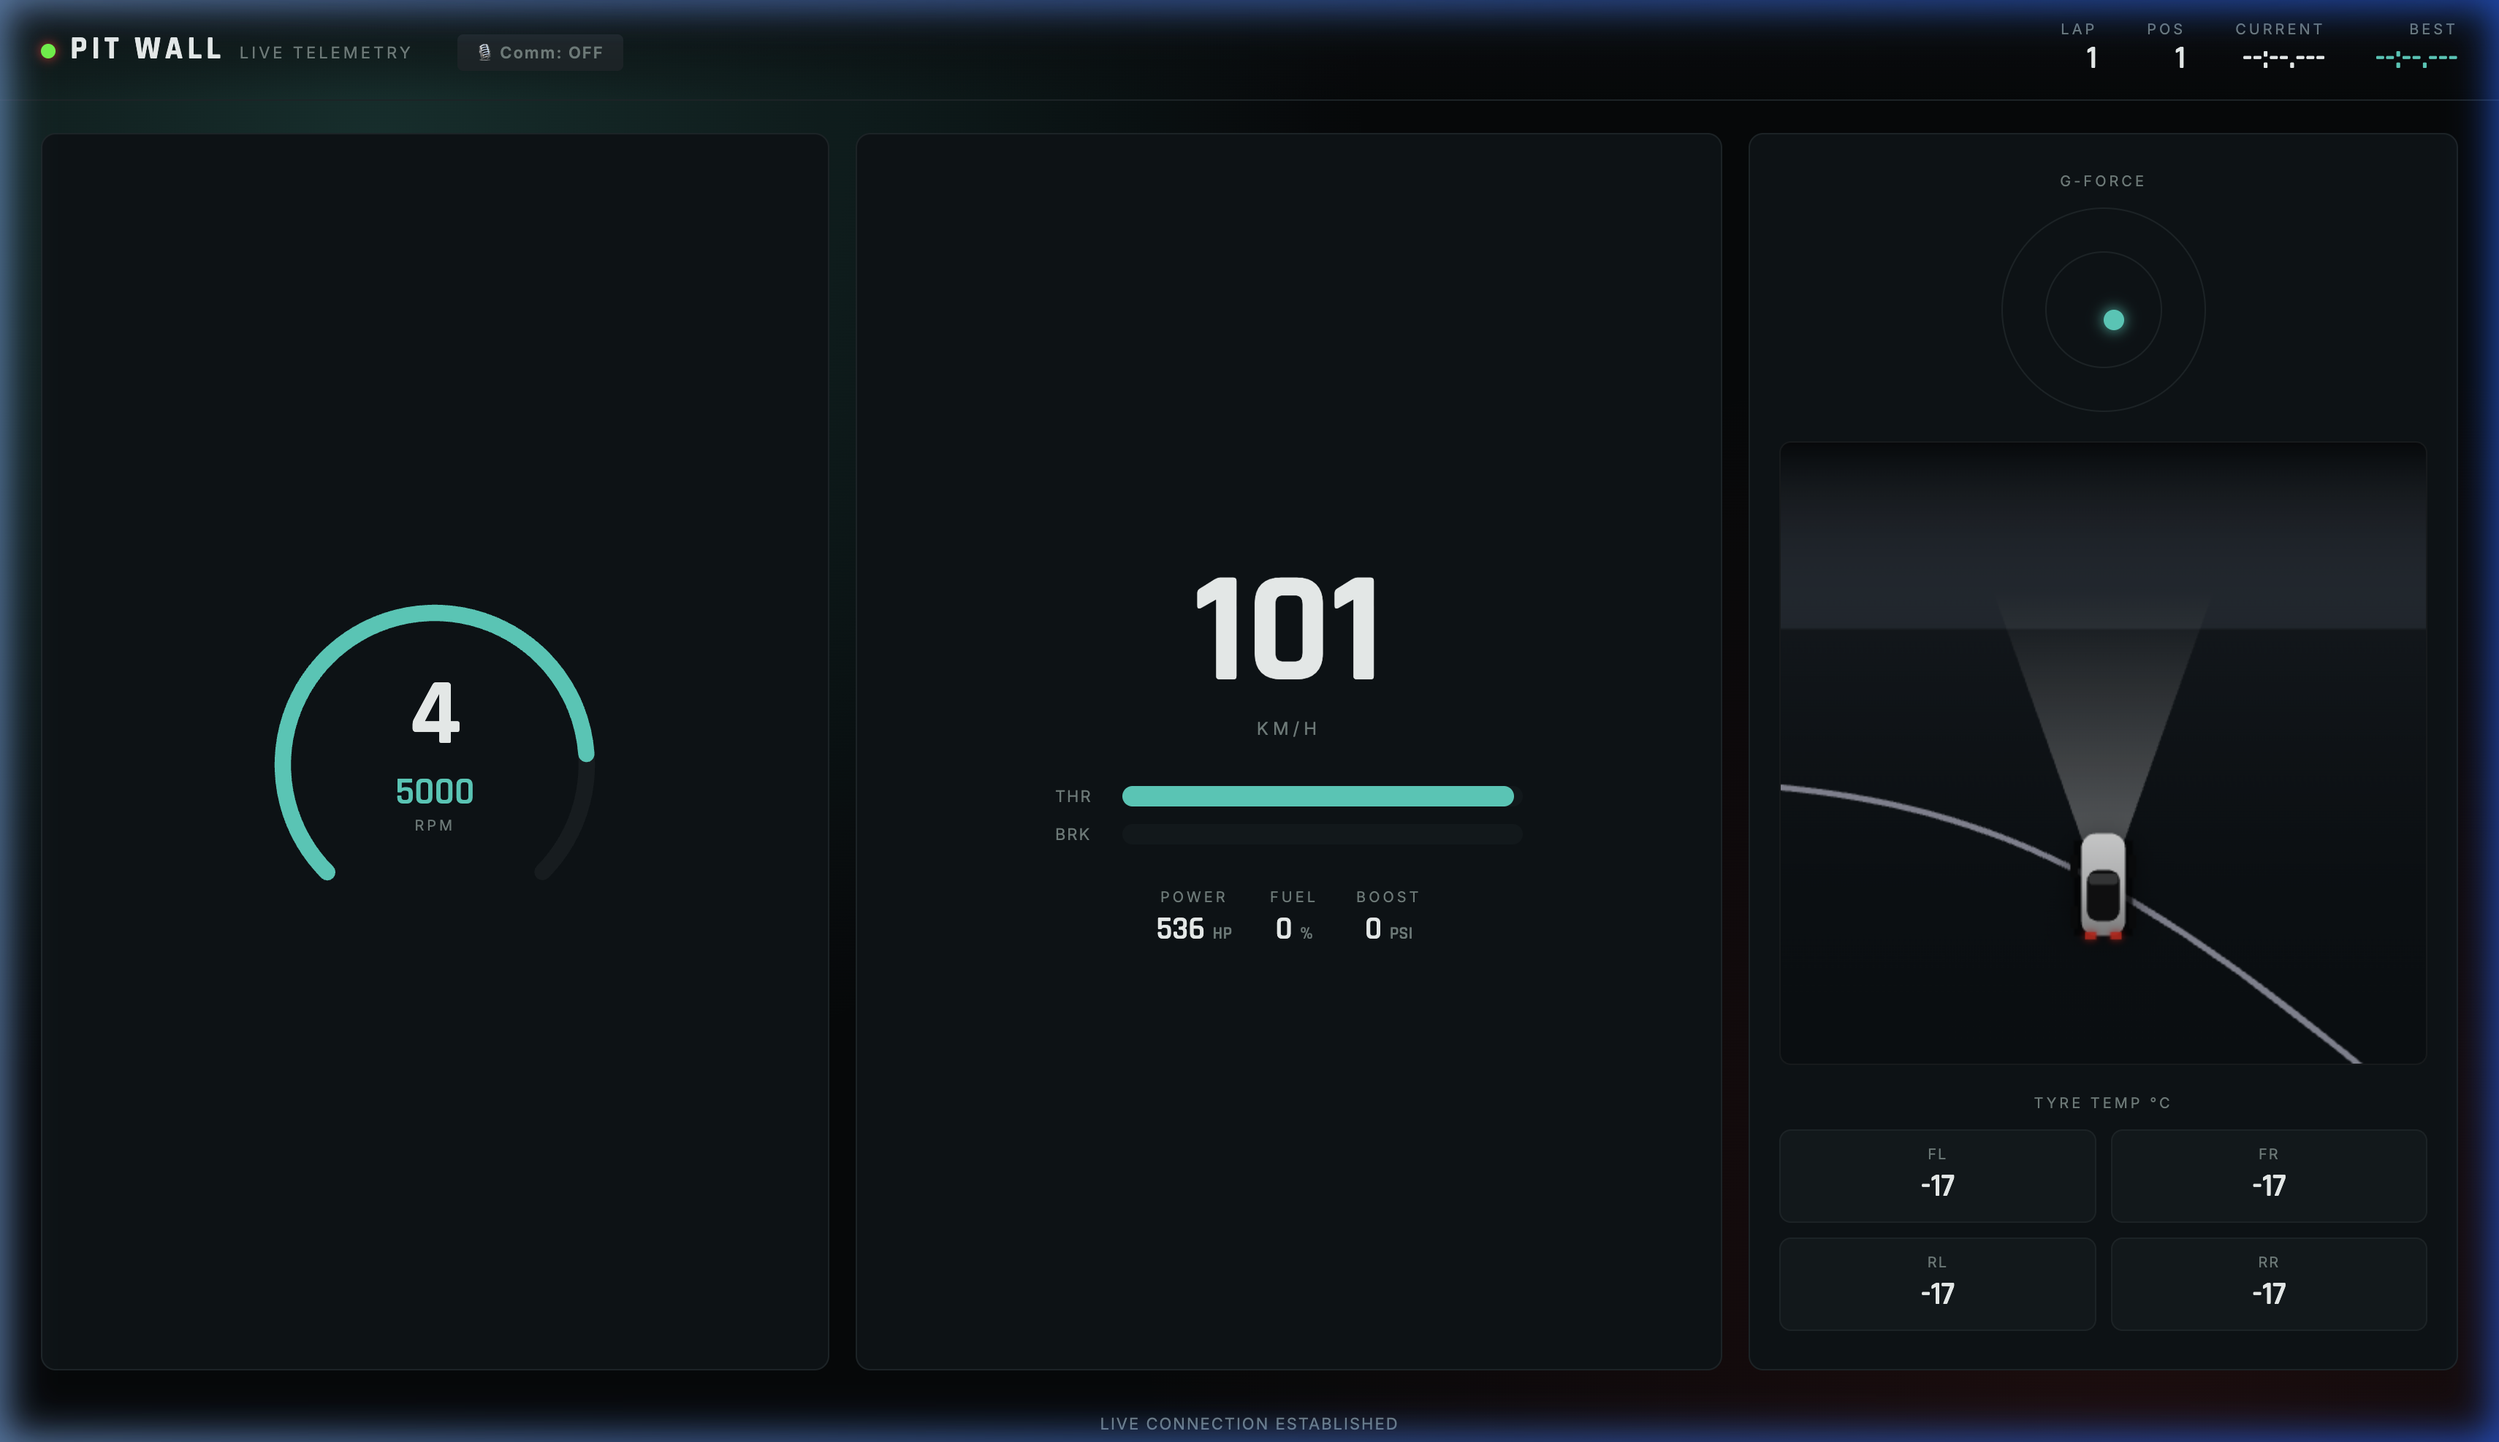
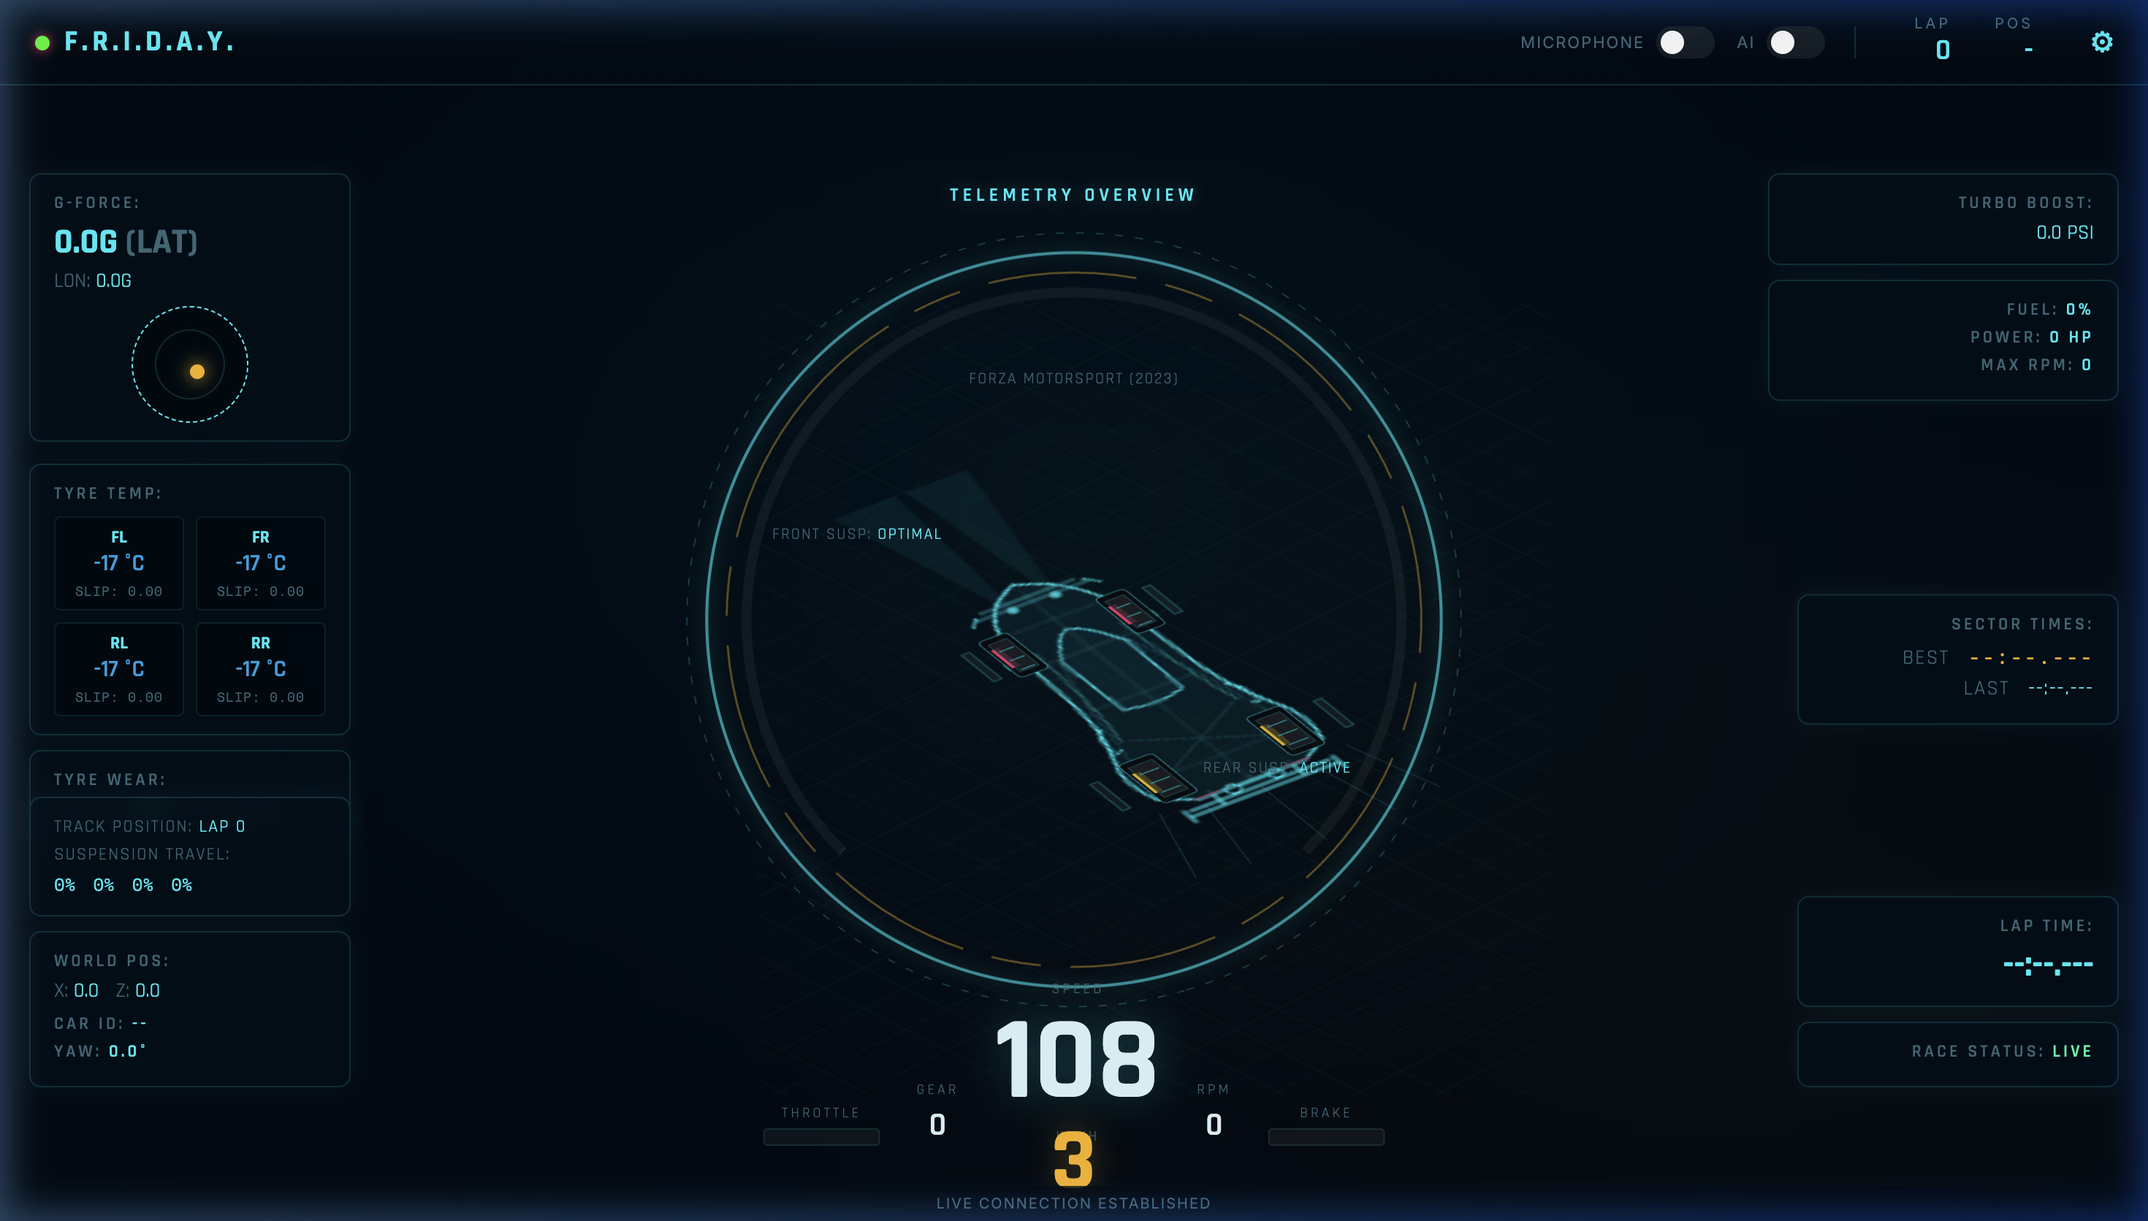
Update README and dashboard screenshot with latest UI

diff --git a/README.md b/README.md
@@ -1,4 +1,4 @@
-# Pitwall — F.R.I.D.A.Y. AI Race Engineer 🏎🤖
+# Pitwall — F.R.I.D.A.Y. AI Race Engineer
 
 **Pitwall** is a live telemetry dashboard and AI-powered race engineer for sim racing (Forza Horizon/Motorsport). It captures real-time UDP telemetry data from the game and uses a highly optimized physics engine and lightweight AI models to give you dynamic, context-aware audio feedback via a custom "F.R.I.D.A.Y." persona.
 
